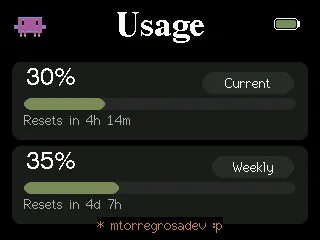
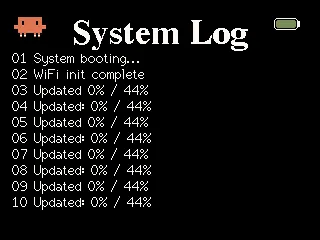
Revamp README with gallery and assets
Major rewrite of README: new header, badges, centered intro, visual gallery, feature/tech stack, project structure, interactive terminal docs, Easter eggs (snake + Konami), and updated local run instructions (Python / npx). Added several README images under src/ (readme-hero.png, readme-about.png, readme-modal.png, readme-projects.png, readme-snake.png) and replaced/updated Clawdmeter WebP screenshots (clawdmeter-1..3.webp). Documentation-only change to improve onboarding and showcase visuals.

diff --git a/README.md b/README.md
@@ -1,121 +1,100 @@
-# mtorregrosa.dev
+# 🕹 mtorregrosa.dev
 
-Personal portfolio for Marc Lumbreras — Computer Engineering student at La Salle Campus Barcelona.
+<p align="center">
+  <strong>Personal portfolio of Marc Lumbreras</strong><br />
+  <em>Junior Developer & Computer Engineering student @ La Salle BCN</em>
+</p>
 
-No build step. No dependencies. Pure HTML + CSS + JS.
-Open `index.html` in a browser or serve with any HTTP server.
-
-> Future domain: [mtorregrosa.is-a.dev](https://mtorregrosa.is-a.dev)
-
----
-
-## Sections
-
-- **About** — Bio, location, current role, and education
-- **Skills** — 20 technologies (Languages, Frameworks, Cloud & IoT, Tools & OS, Certifications)
-- **Experience** — 3 positions (Algorithmics, MICA ECO, CJS Som-hi Tots!)
-- **Projects** — 7 projects in a carousel; click any card to open a modal with image carousel and details
-- **Contact** — Interactive terminal
+<p align="center">
+  <a href="https://mtorregrosadev.github.io">
+    <img src="https://img.shields.io/badge/Live-mtorregrosa.is--a.dev-blue?style=for-the-badge&logo=google-chrome&logoColor=white" alt="Live Site" />
+  </a>
+  <a href="LICENSE">
+    <img src="https://img.shields.io/badge/License-MIT-green?style=for-the-badge" alt="License" />
+  </a>
+</p>
 
 ---
 
-## File structure
+## 🎨 Gallery
 
-```
+| **Desktop Overview** | **About Me** |
+|:---:|:---:|
+| ![Web](src/readme-hero.png) | ![About me](src/readme-about.png) |
+
+| **Projects Carousel** | **Project Details (Modal)** |
+|:---:|:---:|
+| ![Projects](src/readme-projects.png) | ![Expand Project](src/readme-modal.png) |
+
+<p align="center">
+  <strong>Interactive Snake Easter Egg</strong><br />
+  <img src="src/readme-snake.png" alt="Snake Game" width="600" />
+</p>
+
+---
+
+## 🛠 Features & Tech Stack
+
+- **💎 Vanilla Everything:** Built with pure **HTML5**, **CSS3**, and **Vanilla JavaScript**. No frameworks, no libraries, no build steps. Just clean, optimized code.
+- **📟 Retro Aesthetic:** A responsive, pixel-perfect design inspired by classic macOS and Terminal interfaces.
+- **🌍 Dynamic i18n:** Full support for **English**, **Spanish**, and **Catalan**. Text is dynamically injected from `translations.json` without reloading the page.
+- **🖥 Interactive Terminal:** A custom-built terminal emulator in the contact section with history support, various commands, and hidden ASCII art.
+- **⚡ High Performance:** Optimized assets served in **WebP** format and lazy-loaded for a near-instant experience.
+
+---
+
+## 🗂 Project Structure
+
+```text
 mtorregrosa.dev/
-├── index.html          — full single-page structure
-├── styles.css          — all styles (CSS variables, retro macOS aesthetic)
-├── main.js             — navbar, project carousel, modal, terminal, snake game
-├── translations.json   — all UI text in EN / ES / CA (canonical source of truth)
-└── src/                — local images (WebP for photos, SVG for vector icons)
-    └── empreses/       — company logos (WebP)
+├── index.html          — Semantic HTML5 structure
+├── styles.css          — Retro UI system and animations
+├── main.js             — Core logic (i18n, terminal, carousel, snake)
+├── translations.json   — Centralized source for all multilingual text
+└── src/                — High-performance optimized assets
+    ├── photo.webp        — Profile picture
+    ├── clawdmeter-*.webp — Screenshots for Clawdmeter-m5fire project
+    ├── datathon-*.webp   — ML pipeline project visuals
+    ├── NearHere.webp     — App screenshot
+    ├── Dewi-Hack.webp    — Hackathon project screenshot
+    ├── interhack-*.webp  — Ruta Damm / InterHack 2026 gallery
+    └── empreses/         — Company logos (Algorithmics, Mica, Som-hi)
 ```
-
-### Images in `src/`
-
-| File | Use |
-|------|-----|
-| `photo.webp` | Profile photo |
-| `NearHere.webp` | Near-Here project |
-| `Dewi-Hack.webp` | Dewi project |
-| `Hack-rutes.webp` | Ruta Damm — image 1 |
-| `Hack-carrega.webp` | Ruta Damm — image 2 |
-| `Octopus-2.webp` | Octop-Scraper — image 1 |
-| `Octopus.webp` | Octop-Scraper — image 2 |
-| `playwright.webp` | Playwright skill icon |
-| `flet.webp` | Flet skill icon |
-| `esp32.webp` | ESP32 skill icon |
-| `PlatformIO.svg` | PlatformIO skill icon (vector) |
-| `empreses/algorithmics.webp` | Algorithmics logo |
-| `empreses/mica.webp` | MICA ECO logo |
-| `empreses/somhi.webp` | CJS Som-hi Tots! logo |
 
 ---
 
-## Running locally
+## 💻 Interactive Terminal
+
+Try these commands in the site's terminal window:
+- `help` — List all available commands.
+- `whoami` — A brief introduction.
+- `ls` — List major projects.
+- `contact` — Quick links to Email, GitHub, and LinkedIn.
+- `cat about.txt` — Read my full bio.
+- **ASCII Art:** `happymac`, `sadmac`, `bomb`, `boot`, `coffee`, `matrix`.
+
+---
+
+## 🕹 Easter Eggs
+
+### Classic Snake Game
+Launch the classic Snake game via:
+1. Typing `snake` or `play` in the terminal.
+2. Clicking the `⌘` logo in the navbar.
+3. Entering the **Konami code**: `↑ ↑ ↓ ↓ ← → ← → B A`.
+
+---
+
+## 🚀 Running Locally
+
+The site works directly via `file://`, but a local server is recommended for the best experience with translation loading:
 
 ```bash
-# Option 1 — open directly (translations load from fallback in main.js)
-open index.html
-
-# Option 2 — serve with Python (recommended, loads translations.json)
+# Using Python
 python3 -m http.server 8080
-# then open http://localhost:8080
+
+# Using Node.js (npx)
+npx serve .
 ```
 
----
-
-## Terminal
-
-Click the `contact.txt — Terminal` window and start typing. The cursor blinks, history works with ↑/↓.
-
-### Keyboard shortcuts
-
-| Key | Action |
-|-----|--------|
-| `Enter` | Run command |
-| `↑` / `↓` | Navigate history |
-| `Ctrl+L` / `⌘+L` | Clear terminal |
-
-### Available commands
-
-| Command | Output |
-|---------|--------|
-| `help` | List all commands |
-| `whoami` | Quick intro |
-| `ls` | List projects |
-| `cat about.txt` | Full bio |
-| `cat cv.pdf` | Download CV |
-| `contact` | Email, GitHub, LinkedIn |
-| `sudo hire marc` | Permission granted |
-| `clear` | Clear screen |
-
----
-
-## Easter eggs
-
-### Snake 🕹
-
-Three ways to launch:
-- Type `snake` or `play` in the terminal
-- Click the `⌘` logo in the navbar
-- Enter the **Konami code** anywhere on the page: `↑ ↑ ↓ ↓ ← → ← → B A`
-
-Controls: arrow keys to move, `Space` to pause, `Esc` to quit. High score saved to `localStorage`.
-
-### ASCII commands
-
-| Command | Output |
-|---------|--------|
-| `happy` / `happymac` | Happy Mac in ASCII |
-| `sad` / `sadmac` | Sad Mac (System Failure) |
-| `bomb` / `crash` | Classic bomb dialog |
-| `boot` / `reboot` | System 1.0 boot sequence |
-| `save` | Floppy disk ASCII |
-| `coffee` | Coffee cup ASCII |
-| `fortune` | Random programming quote |
-| `matrix` | Mini Matrix rain |
-| `tux` / `linux` | Tux + Marc's stack |
-| `rm -rf /` | "nice try." + bomb |
-| `sudo make me a sandwich` | "okay." |
-```
+Open your browser at `http://localhost:8080`.
